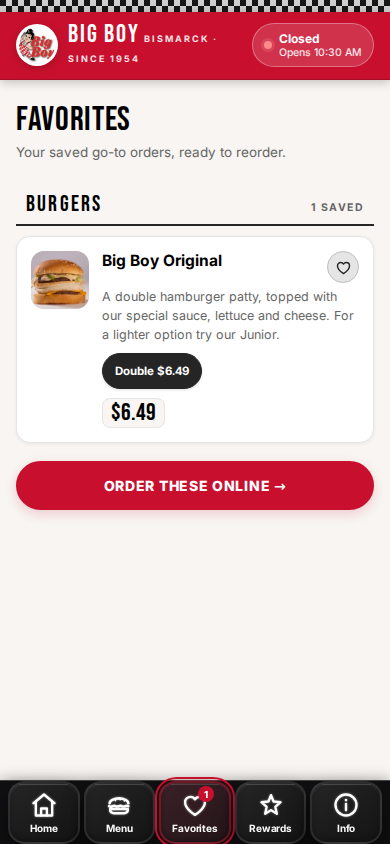
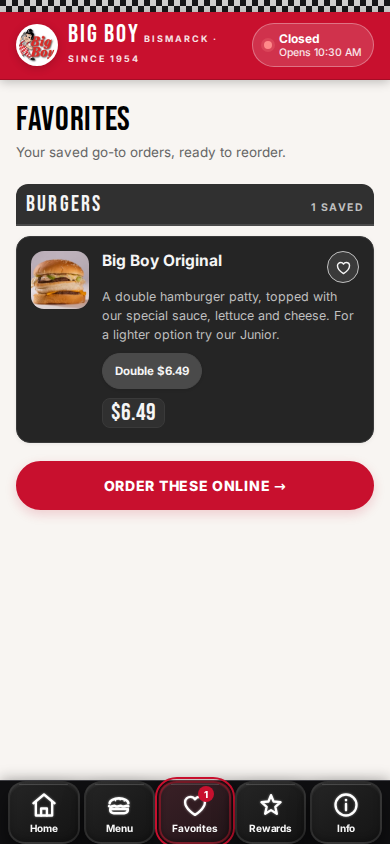
Use dark charcoal blocks on all tabs, keep red areas unchanged

Changed region(s): [[0.0308, 0.2156, 0.9846, 0.5237]]

diff --git a/index.html b/index.html
@@ -35,10 +35,28 @@
   --charcoal:#252525;
   --shadow:0 4px 12px rgba(0,0,0,.08);
   --shadow-soft:0 1px 4px rgba(0,0,0,.06);
+  --block:#252525;
+  --block-inset:#303030;
+  --block-line:#3A3A3A;
+  --block-accent:#4A4A4A;
+  --block-ink:#F5F5F5;
+  --block-ink-soft:#BFBFBF;
   --radius:18px;
   --radius-md:14px;
   --radius-sm:12px;
   --nav-h:64px;
+}
+/* ---------- dark charcoal content blocks on every tab (red areas untouched) ---------- */
+.special,.award,.card,.search,.chip,.cat-head,.item,.fav,.size,.price,
+.reward-card,.note-box,.fb-card,.fb-link,.fb-deal-card,.fb-deal-more,
+.fb-deal-open,.alert-card,.alert-toggle[data-state="off"],.ph,.story-photo,
+blockquote,.contact-row .ico,.menu-skeleton .sk-row,.btn.ghost{
+  --paper:var(--block);
+  --cream:var(--block-inset);
+  --line:var(--block-line);
+  --ink:var(--block-ink);
+  --ink-soft:var(--block-ink-soft);
+  color:var(--block-ink);
 }
 *{box-sizing:border-box;-webkit-tap-highlight-color:transparent}
 html,body{margin:0;padding:0}
@@ -541,6 +559,14 @@ nav.tabbar{padding:0 8px env(safe-area-inset-bottom)}
 @media (prefers-reduced-motion: reduce){
   *,*::before,*::after{animation-duration:.01ms!important;animation-iteration-count:1!important;transition-duration:.01ms!important;scroll-behavior:auto!important}
 }
+/* ---- dark block accents: kept last so they win over base rules ---- */
+.chip.on,.size.on{background:var(--block-accent);border-color:var(--block-accent);color:var(--block-ink)}
+.cat-head{border-bottom-color:var(--block-accent)}
+blockquote{border-left-color:var(--block-accent)}
+blockquote cite,.award .yr,.tl-item .yr{color:var(--block-ink-soft)}
+.tl-item::before{background:var(--block-accent)}
+.fav.on,.contact-row .ico,.fb-deal-more,.fb-deal-more .icon{color:var(--block-ink)}
+.fb-link{color:#8AB4FF}
 </style>
 </head>
 <body>
